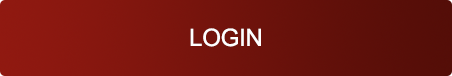
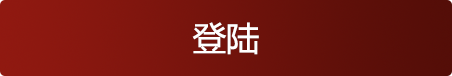
Bug Fix.

Changed region(s): [[0.4027, 0.2895, 0.5885, 0.7368]]

diff --git a/bin-debug/Info1UI.js b/bin-debug/Info1UI.js
@@ -54,26 +54,27 @@ var Info1UI = (function (_super) {
         Main.bg.texture = RES.getRes("Background3_png");
     };
     Info1UI.prototype.createBannerAndTips = function () {
+        this.banner = createBitmap("SandsRewardsLifestyle_Logo_png");
+        this.banner.x = (this.stage.stageWidth - this.banner.width) * 0.5;
+        this.banner.y = this.stage.stageHeight * 0.03;
+        this.addChild(this.banner);
         var tipsTextSize = 40;
         var tipsTextColor = 0xFFFFFF;
         this.tipText1 = createTextFiledNoEui(mc_content.tipText1);
         this.tipText1.textColor = tipsTextColor;
         this.tipText1.size = tipsTextSize;
         middleObject(this.stage.stageWidth, this.tipText1);
-        this.tipText1.y = this.stage.stageHeight * 0.30;
+        this.tipText1.y = this.banner.y + this.banner.height + 40;
         this.addChild(this.tipText1);
         this.tipText2 = createTextFiledNoEui(mc_content.tipText2);
         this.tipText2.textColor = tipsTextColor;
         this.tipText2.size = tipsTextSize;
         middleObject(this.stage.stageWidth, this.tipText2);
-        this.tipText2.y = this.stage.stageHeight * 0.30 + tipsTextSize;
+        //this.tipText2.y = this.stage.stageHeight * 0.30 + tipsTextSize;
+        this.tipText2.y = this.tipText1.y + this.tipText1.height + 10;
         this.addChild(this.tipText2);
     };
     Info1UI.prototype.createLoginView = function () {
-        this.banner = createBitmap("SandsRewardsLifestyle_Logo_png");
-        this.banner.x = (this.stage.stageWidth - this.banner.width) * 0.5;
-        this.banner.y = this.stage.stageHeight * 0.03;
-        this.addChild(this.banner);
         this._loginView.touchThrough = true;
         var img = new eui.Image("/resource/assets/djy_wbk.png");
         var srlCard = new eui.Image("/resource/assets/SRL_Cards.png");
@@ -82,7 +83,7 @@ var Info1UI = (function (_super) {
         var sigUpText = new eui.Image("/resource/assets/signup_text.png");
         var inputTips = new eui.Image("/resource/assets/question_child.png");
         inputTips.x = 540;
-        inputTips.y = 645;
+        inputTips.y = 680;
         inputTips.scaleX = 1.3;
         inputTips.scaleY = 1.3;
         inputTips.touchEnabled = true;
@@ -103,19 +104,19 @@ var Info1UI = (function (_super) {
             this.addChild(cont);
         }, this);
         img.scaleY = 1.15;
-        this._loginView.y = 200;
+        this._loginView.y = 50;
         this._loginView.width = this.stage.stageWidth;
-        this._loginView.height = 1080;
+        //this._loginView.height = 1080;
         var last_name_label = createTextFiled(mc_content.MID, this.registerLabelX, this.registerLabelYBias + this.registerLabelY * 1, 24, 0x000000);
-        this.memerIdInput = createTextFiled(mc_content.InputID, 149 + 62, 633, 25, 0xa1a1a1, "left", 320, 72, "middle", false, 0x000000, false, egret.TextFieldType.INPUT);
+        this.memerIdInput = createTextFiled(mc_content.InputID, 149 + 62, 668, 25, 0xa1a1a1, "left", 320, 72, "middle", false, 0x000000, false, egret.TextFieldType.INPUT);
         srlCard.x = 115;
         srlCard.y = 420;
         loginPanel.x = 149;
-        loginPanel.y = 600;
+        loginPanel.y = 630;
         loginBtn.x = 149;
-        loginBtn.y = 715;
+        loginBtn.y = 765;
         sigUpText.x = 226;
-        sigUpText.y = 900;
+        sigUpText.y = 950;
         this._loginView.addChild(srlCard);
         this._loginView.addChild(loginPanel);
         this._loginView.addChild(sigUpText);
@@ -312,7 +313,7 @@ var Info1UI = (function (_super) {
         this.mcCheckBox.y = this.registerLabelYBias + this.registerLabelY * 7.5;
         //   var terms1_LBoxTxt = createTextFiledNoEui(mc_content.terms1_LBox);
         var terms1_LBoxTxt = new egret.TextField;
-        terms1_LBoxTxt.textFlow = new Array({ text: "I wish to receive marketing updates via postal mail,\r\nemail,text messaging and/or telephone as \r\ndescribed ", style: {} }, { text: mc_content.terms1_LBox, style: { "href": "event:text event triggered", "bold": true } });
+        terms1_LBoxTxt.textFlow = new Array({ text: "我希望通过信件、电邮、简讯及/或电话搜集接收", style: { "fontFamily": "Microsoft YaHei" } }, { text: mc_content.terms1_LBox, style: { "href": "event:text event triggered", "bold": true, "fontFamily": "Microsoft YaHei" } }, { text: "\r\n所述的最新营销动态。", style: { "fontFamily": "Microsoft YaHei" } });
         terms1_LBoxTxt.size = 23;
         terms1_LBoxTxt.x = this.registerLabelX + 50;
         terms1_LBoxTxt.y = 822;
@@ -350,7 +351,7 @@ var Info1UI = (function (_super) {
         this.mcCheckBox2.x = this.registerLabelX;
         this.mcCheckBox2.y = this.registerLabelYBias + this.registerLabelY * 8.5;
         var tx = new egret.TextField;
-        tx.textFlow = new Array({ text: "I understand and agree to both the" + "Sands Rewards \r\nLifeStyle programme terms and conditions" + " and the " + "\r\nprocessing of my personal data" + ", and warrant that \r\nthe declarations ", style: {} }, { text: mc_content.terms2_LBox, style: { "href": "event:text event triggered", "bold": true } }, { text: " are true.", style: {} });
+        tx.textFlow = new Array({ text: "我理解并同意金沙尊赏时尚会员计划的条款与条件以及\r\n对于本人资料的处理，同时保证声明内容", style: { "fontFamily": "Microsoft YaHei" } }, { text: mc_content.terms2_LBox, style: { "href": "event:text event triggered", "bold": true, "fontFamily": "Microsoft YaHei" } }, { text: "真实有效。", style: { "fontFamily": "Microsoft YaHei" } });
         tx.touchEnabled = true;
         tx.addEventListener(egret.TextEvent.LINK, function (evt) {
             console.log(evt.text);
@@ -360,9 +361,11 @@ var Info1UI = (function (_super) {
             middleObject(this.stage.stageWidth, myCard);
             myCard.y = this.stage.stageHeight * 0.2;
             var tc = createTextFiledNoEui(mc_content.TC);
-            tc.size = 28;
-            tc.x = this.registerLabelX + 63;
-            tc.y = myCard.y + myCard.height * 0.48;
+            tc.fontFamily = "Microsoft YaHei";
+            tc.size = 30;
+            tc.x = myCard.x + 238;
+            // tc.y = this.stage.stageHeight * 0.4-102;
+            tc.y = myCard.y + 227;
             tc.textColor = 0x851c1c;
             tc.bold = true;
             cont.addChild(_whiteShader);

diff --git a/src/Info1UI.ts b/src/Info1UI.ts
@@ -101,13 +101,19 @@ class Info1UI extends eui.UILayer {
     }
 
     private createBannerAndTips(){
+
+        this.banner = createBitmap("SandsRewardsLifestyle_Logo_png");
+        this.banner.x =(this.stage.stageWidth - this.banner.width) * 0.5;
+        this.banner.y = this.stage.stageHeight * 0.03;
+        this.addChild(this.banner);
+
        var tipsTextSize = 40;
        var tipsTextColor = 0xFFFFFF;
        this.tipText1 =  createTextFiledNoEui(mc_content.tipText1);
        this.tipText1.textColor = tipsTextColor;
        this.tipText1.size = tipsTextSize;
        middleObject(this.stage.stageWidth,this.tipText1);
-       this.tipText1.y = this.stage.stageHeight * 0.30;
+       this.tipText1.y = this.banner.y +this.banner.height + 40;
 
        this.addChild(this.tipText1);
 
@@ -115,16 +121,12 @@ class Info1UI extends eui.UILayer {
        this.tipText2.textColor = tipsTextColor;
        this.tipText2.size = tipsTextSize;
        middleObject(this.stage.stageWidth,this.tipText2);
-       this.tipText2.y = this.stage.stageHeight * 0.30 + tipsTextSize;
+       //this.tipText2.y = this.stage.stageHeight * 0.30 + tipsTextSize;
+       this.tipText2.y = this.tipText1.y + this.tipText1.height + 10;
        this.addChild(this.tipText2);
     }
 
     private createLoginView(){
-
-        this.banner = createBitmap("SandsRewardsLifestyle_Logo_png");
-        this.banner.x =(this.stage.stageWidth - this.banner.width) * 0.5;
-        this.banner.y = this.stage.stageHeight * 0.03;
-        this.addChild(this.banner);
 
         this._loginView.touchThrough = true;
        var img = new eui.Image("/resource/assets/djy_wbk.png"); 
@@ -136,7 +138,7 @@ class Info1UI extends eui.UILayer {
        var inputTips = new eui.Image("/resource/assets/question_child.png");
        
        inputTips.x = 540;
-       inputTips.y = 645;
+       inputTips.y = 680;
        inputTips.scaleX = 1.3;
        inputTips.scaleY = 1.3;
        inputTips.touchEnabled = true;
@@ -161,23 +163,23 @@ class Info1UI extends eui.UILayer {
        },this);
 
        img.scaleY = 1.15;
-       this._loginView.y = 200;
+       this._loginView.y = 50;
        this._loginView.width =this.stage.stageWidth;
-       this._loginView.height = 1080;
+       //this._loginView.height = 1080;
        var last_name_label=createTextFiled(mc_content.MID,this.registerLabelX,this.registerLabelYBias+this.registerLabelY*1,24,0x000000);
-       this.memerIdInput=createTextFiled(mc_content.InputID, 149 + 62 , 633, 25,  0xa1a1a1, "left",320,72, "middle", false,  0x000000, false,egret.TextFieldType.INPUT);
+       this.memerIdInput=createTextFiled(mc_content.InputID, 149 + 62 , 668, 25,  0xa1a1a1, "left",320,72, "middle", false,  0x000000, false,egret.TextFieldType.INPUT);
 
        srlCard.x = 115;
        srlCard.y = 420;
 
        loginPanel.x = 149;
-       loginPanel.y = 600;
+       loginPanel.y = 630;
 
        loginBtn.x = 149;
-       loginBtn.y = 715;
+       loginBtn.y = 765;
 
        sigUpText.x = 226;
-       sigUpText.y = 900;
+       sigUpText.y = 950;
 
        this._loginView.addChild(srlCard);
        this._loginView.addChild(loginPanel);
@@ -403,8 +405,8 @@ class Info1UI extends eui.UILayer {
       
       var terms1_LBoxTxt:egret.TextField = new egret.TextField;
         terms1_LBoxTxt.textFlow = new Array<egret.ITextElement>(
-            { text:"I wish to receive marketing updates via postal mail,\r\nemail,text messaging and/or telephone as \r\ndescribed ", style: {} },{ text:mc_content.terms1_LBox, style: { "href" : "event:text event triggered","bold":true} }
-            
+            { text:"我希望通过信件、电邮、简讯及/或电话搜集接收", style: {"fontFamily":"Microsoft YaHei"} },{ text:mc_content.terms1_LBox, style: { "href" : "event:text event triggered","bold":true,"fontFamily":"Microsoft YaHei"} }
+            ,{ text:"\r\n所述的最新营销动态。", style: {"fontFamily":"Microsoft YaHei"} }
         );
 
       terms1_LBoxTxt.size = 23;
@@ -461,8 +463,8 @@ class Info1UI extends eui.UILayer {
 
       var tx:egret.TextField = new egret.TextField;
         tx.textFlow = new Array<egret.ITextElement>(
-            { text:"I understand and agree to both the"+"Sands Rewards \r\nLifeStyle programme terms and conditions"+" and the "+"\r\nprocessing of my personal data"+", and warrant that \r\nthe declarations ", style: {} },{ text:mc_content.terms2_LBox, style: { "href" : "event:text event triggered","bold":true} }
-            ,{ text:" are true.", style: {} }
+            { text:"我理解并同意金沙尊赏时尚会员计划的条款与条件以及\r\n对于本人资料的处理，同时保证声明内容", style: {"fontFamily":"Microsoft YaHei"} },{ text:mc_content.terms2_LBox, style: { "href" : "event:text event triggered","bold":true,"fontFamily":"Microsoft YaHei"} }
+            ,{ text:"真实有效。", style: {"fontFamily":"Microsoft YaHei"} }
         );
         tx.touchEnabled = true;
         tx.addEventListener( egret.TextEvent.LINK, function( evt:egret.TextEvent){
@@ -474,9 +476,11 @@ class Info1UI extends eui.UILayer {
              myCard.y = this.stage.stageHeight * 0.2;
 
             var tc = createTextFiledNoEui(mc_content.TC);
-            tc.size = 28;
-            tc.x = this.registerLabelX+63;
-            tc.y = myCard.y +myCard.height * 0.48;
+            tc.fontFamily="Microsoft YaHei";
+            tc.size = 30;
+            tc.x = myCard.x+238;
+            // tc.y = this.stage.stageHeight * 0.4-102;
+            tc.y =  myCard.y+227;
             tc.textColor = 0x851c1c;
             tc.bold = true;
              cont.addChild(_whiteShader);

diff --git a/src/PrizeAndRules.ts b/src/PrizeAndRules.ts
@@ -61,12 +61,12 @@ class PrizeAndRules extends eui.UILayer {
         title.size = textSize;
 
 
-        var cT = 'Member ID:';
+       var cT = mc_content.MID;
         if(getLocalStorage(Main.MEMBERID_SYB)){
-            cT = "Member ID: " + getLocalStorage(Main.MEMBERID_SYB)
+            cT = mc_content.MID + getLocalStorage(Main.MEMBERID_SYB)
             
         }else if(getLocalStorage(Main.TOKENID_SYB)){
-            cT = "Not Login"
+            cT = mc_content.notLogin;
         }
         var user = createTextFiledNoEui(cT);
         user.textColor = textColor;
@@ -83,7 +83,9 @@ class PrizeAndRules extends eui.UILayer {
             ac_content.size = textSize
             ac_content.x = 200;
             ac_content.textColor = textColor;
-            ac_content.y = (this.stage.stageHeight * 0.05+285+ textSize*i)/multi;
+            //ac_content.y = (this.stage.stageHeight * 0.05+305+ textSize*i)/multi;
+            ac_content.y = (my_prize_info_bg.y + 363 + textSize*i)/multi;
+            ac_content.fontFamily="Microsoft YaHei";
             ac_content.y+= (i?1:0)*15;
             myPrizeInfo_cnt.addChild(ac_content);
         }
@@ -93,8 +95,9 @@ class PrizeAndRules extends eui.UILayer {
             var ae_content = createTextFiledNoEui(Main.staticEnvPrizeList[i]);
             ae_content.size = textSize;
             ae_content.x = 200;
+            ae_content.fontFamily="Microsoft YaHei";
             ae_content.textColor = textColor;
-            ae_content.y = (this.stage.stageHeight * 0.05+453+ textSize*i)/multi;
+            ae_content.y = (my_prize_info_bg.y + 550+ textSize*i)/multi;
             ae_content.y+= (i?1:0)*15;
             myPrizeInfo_cnt.addChild(ae_content);
         }
@@ -106,8 +109,9 @@ class PrizeAndRules extends eui.UILayer {
             var ad_content = createTextFiledNoEui(Main.staticDDPrizeList[i]);
             ad_content.size = textSize;
             ad_content.x = 200;
+            ad_content.fontFamily="Microsoft YaHei";
             ad_content.textColor = textColor;
-            ad_content.y = (my_prize_info_bg.y + 170 + textSize*i)/multi;
+            ad_content.y = (my_prize_info_bg.y + 168 + textSize*i)/multi;
             ad_content.y+= (i?1:0)*15;
             myPrizeInfo_cnt.addChild(ad_content);
         }
@@ -194,10 +198,11 @@ class PrizeAndRules extends eui.UILayer {
         _scroller.y = rules_title_bg.y + rules_title_bg.height - 5;
 
 
-        var tc = createTextFiledNoEui(mc_content.terms1_LBox);
+        var tc = createTextFiledNoEui(mc_content.terms1_LBox+"。");
+        tc.fontFamily="Microsoft YaHei";
             tc.size = 32;
-            tc.x = 306;
-            tc.y = 1144;
+            tc.x = 436;
+            tc.y = 973;
             tc.textColor = 0x851c1c;
             tc.bold = true;
 

diff --git a/bin-debug/IndexUI.js b/bin-debug/IndexUI.js
@@ -26,7 +26,7 @@ var IndexUI = (function (_super) {
         _this.getTokenFirst = true;
         _this.sign_out_btn = createBitmap("sign_out_png", 375, 603);
         _this.LoginRegisterbutton = createBitmap("Member Login Button_1_png", 0, 1295);
-        _this.curLang = "e";
+        _this.curLang = "c";
         _this.languageCnt = new egret.DisplayObjectContainer();
         _this.isSelect = false;
         _this.once(egret.Event.ADDED_TO_STAGE, _this.createView, _this);
@@ -141,7 +141,7 @@ var IndexUI = (function (_super) {
         var title = createBitmap("index_title_png", 0, 10);
         this.addChild(title);
         //gameRule
-        var gameRule = createBitmap("PrizesRulesButton_png", 440, this.stage.stageHeight * 0.88);
+        var gameRule = createBitmap("PrizesRulesButton_png", 454, this.stage.stageHeight * 0.88);
         this.addChild(gameRule);
         gameRule.touchEnabled = true;
         //game rule pop up
@@ -177,7 +177,7 @@ var IndexUI = (function (_super) {
             removeLocalStorage(Main.MEMBERID_SYB);
             if (!getLocalStorage(Main.MEMBERID_SYB)) {
                 //this.popUpMessageTip(mc_content.SignOut,this);
-                ShowTipsBox("Sign out success", this);
+                ShowTipsBox(mc_content.SignOut, this);
                 this.sign_out_btn.visible = false;
                 this.LoginRegisterbutton.visible = true;
                 var srlId = getQueryVariable(Main.SRLID_SYB);

diff --git a/src/IndexUI.ts b/src/IndexUI.ts
@@ -23,7 +23,7 @@ class IndexUI extends egret.Sprite {
     private sign_out_btn = createBitmap("sign_out_png", 375, 603);
     private LoginRegisterbutton:egret.Bitmap= createBitmap("Member Login Button_1_png",0,1295);
 
-    private curLang = "e";
+    private curLang = "c";
 
     private languageCnt = new egret.DisplayObjectContainer();
 
@@ -178,7 +178,7 @@ class IndexUI extends egret.Sprite {
 
 
         //gameRule
-         var gameRule = createBitmap("PrizesRulesButton_png",440,this.stage.stageHeight * 0.88);
+         var gameRule = createBitmap("PrizesRulesButton_png",454,this.stage.stageHeight * 0.88);
         this.addChild(gameRule);
         gameRule.touchEnabled = true;
         //game rule pop up
@@ -226,7 +226,7 @@ class IndexUI extends egret.Sprite {
                 removeLocalStorage(Main.MEMBERID_SYB);
                 if(!getLocalStorage(Main.MEMBERID_SYB)){
                     //this.popUpMessageTip(mc_content.SignOut,this);
-                    ShowTipsBox("Sign out success",this);
+                    ShowTipsBox(mc_content.SignOut,this);
                     this.sign_out_btn.visible = false;
                     this.LoginRegisterbutton.visible = true;
                     

diff --git a/src/MyPrizes.ts b/src/MyPrizes.ts
@@ -50,12 +50,12 @@ class MyPrizes extends eui.UILayer {
         title.textColor = textColor;
         title.size = textSize;
 
-        var cT = 'Member ID:';
+        var cT = mc_content.MID;
         if(getLocalStorage(Main.MEMBERID_SYB)){
-            cT = "Member ID: " + getLocalStorage(Main.MEMBERID_SYB)
+            cT = mc_content.MID + getLocalStorage(Main.MEMBERID_SYB)
             
         }else if(getLocalStorage(Main.TOKENID_SYB)){
-            cT = "Not Login"
+            cT = mc_content.notLogin;
         }
         var user = createTextFiledNoEui(cT);
         user.textColor = textColor;
@@ -81,7 +81,7 @@ class MyPrizes extends eui.UILayer {
         aeTextBold.bold = true;
         aeTextBold.textColor = textColor;
         aeTextBold.size = textSize;
-        aeTextBold.y = my_prize_info_bg.y + 540 ;
+        aeTextBold.y = my_prize_info_bg.y + 555 ;
         myPrizeInfo_cnt.addChild(aeTextBold);
 
 

diff --git a/bin-debug/Main.js b/bin-debug/Main.js
@@ -38,7 +38,6 @@ var Main = (function (_super) {
     __extends(Main, _super);
     function Main() {
         var _this = _super.call(this) || this;
-        // static  baseUrl = "https://staging.marinabaysands.com";
         _this.getProbabilityData = "/services/h5game/property";
         _this.currentW = 1624;
         _this.currentH = 750;
@@ -279,7 +278,8 @@ Main.laohujiButOnoff = true;
 Main.registLoginShow = false;
 //http://150.109.32.241:4503/
 //"https://staging.marinabaysands.com"
-Main.baseUrl = window.location.protocol + "//" + window.location.host;
+// static  baseUrl = window.location.protocol +"//" +window.location.host;
+Main.baseUrl = "https://staging.marinabaysands.com";
 Main.patronRegisterUrl = "/services/members_card_register";
 Main.lotteryApi = "/services/h5game/lottery";
 Main.PostTokenizerApi = "/services/h5game/token";

diff --git a/src/MBSContent.ts b/src/MBSContent.ts
@@ -51,5 +51,6 @@ let mc_content={
     "TC":"条款与条件。",
     "haveBinded":"你今天已经玩过了,\r\n此次游戏不会被记录",
     "ParamError":"请检查您的输入信息",
-    "SUSuccess":"登陆成功:\r\n会员ID:"
+    "SUSuccess":"登陆成功:\r\n会员ID:",
+    "notLogin":"会员ID：未登录"
 }
